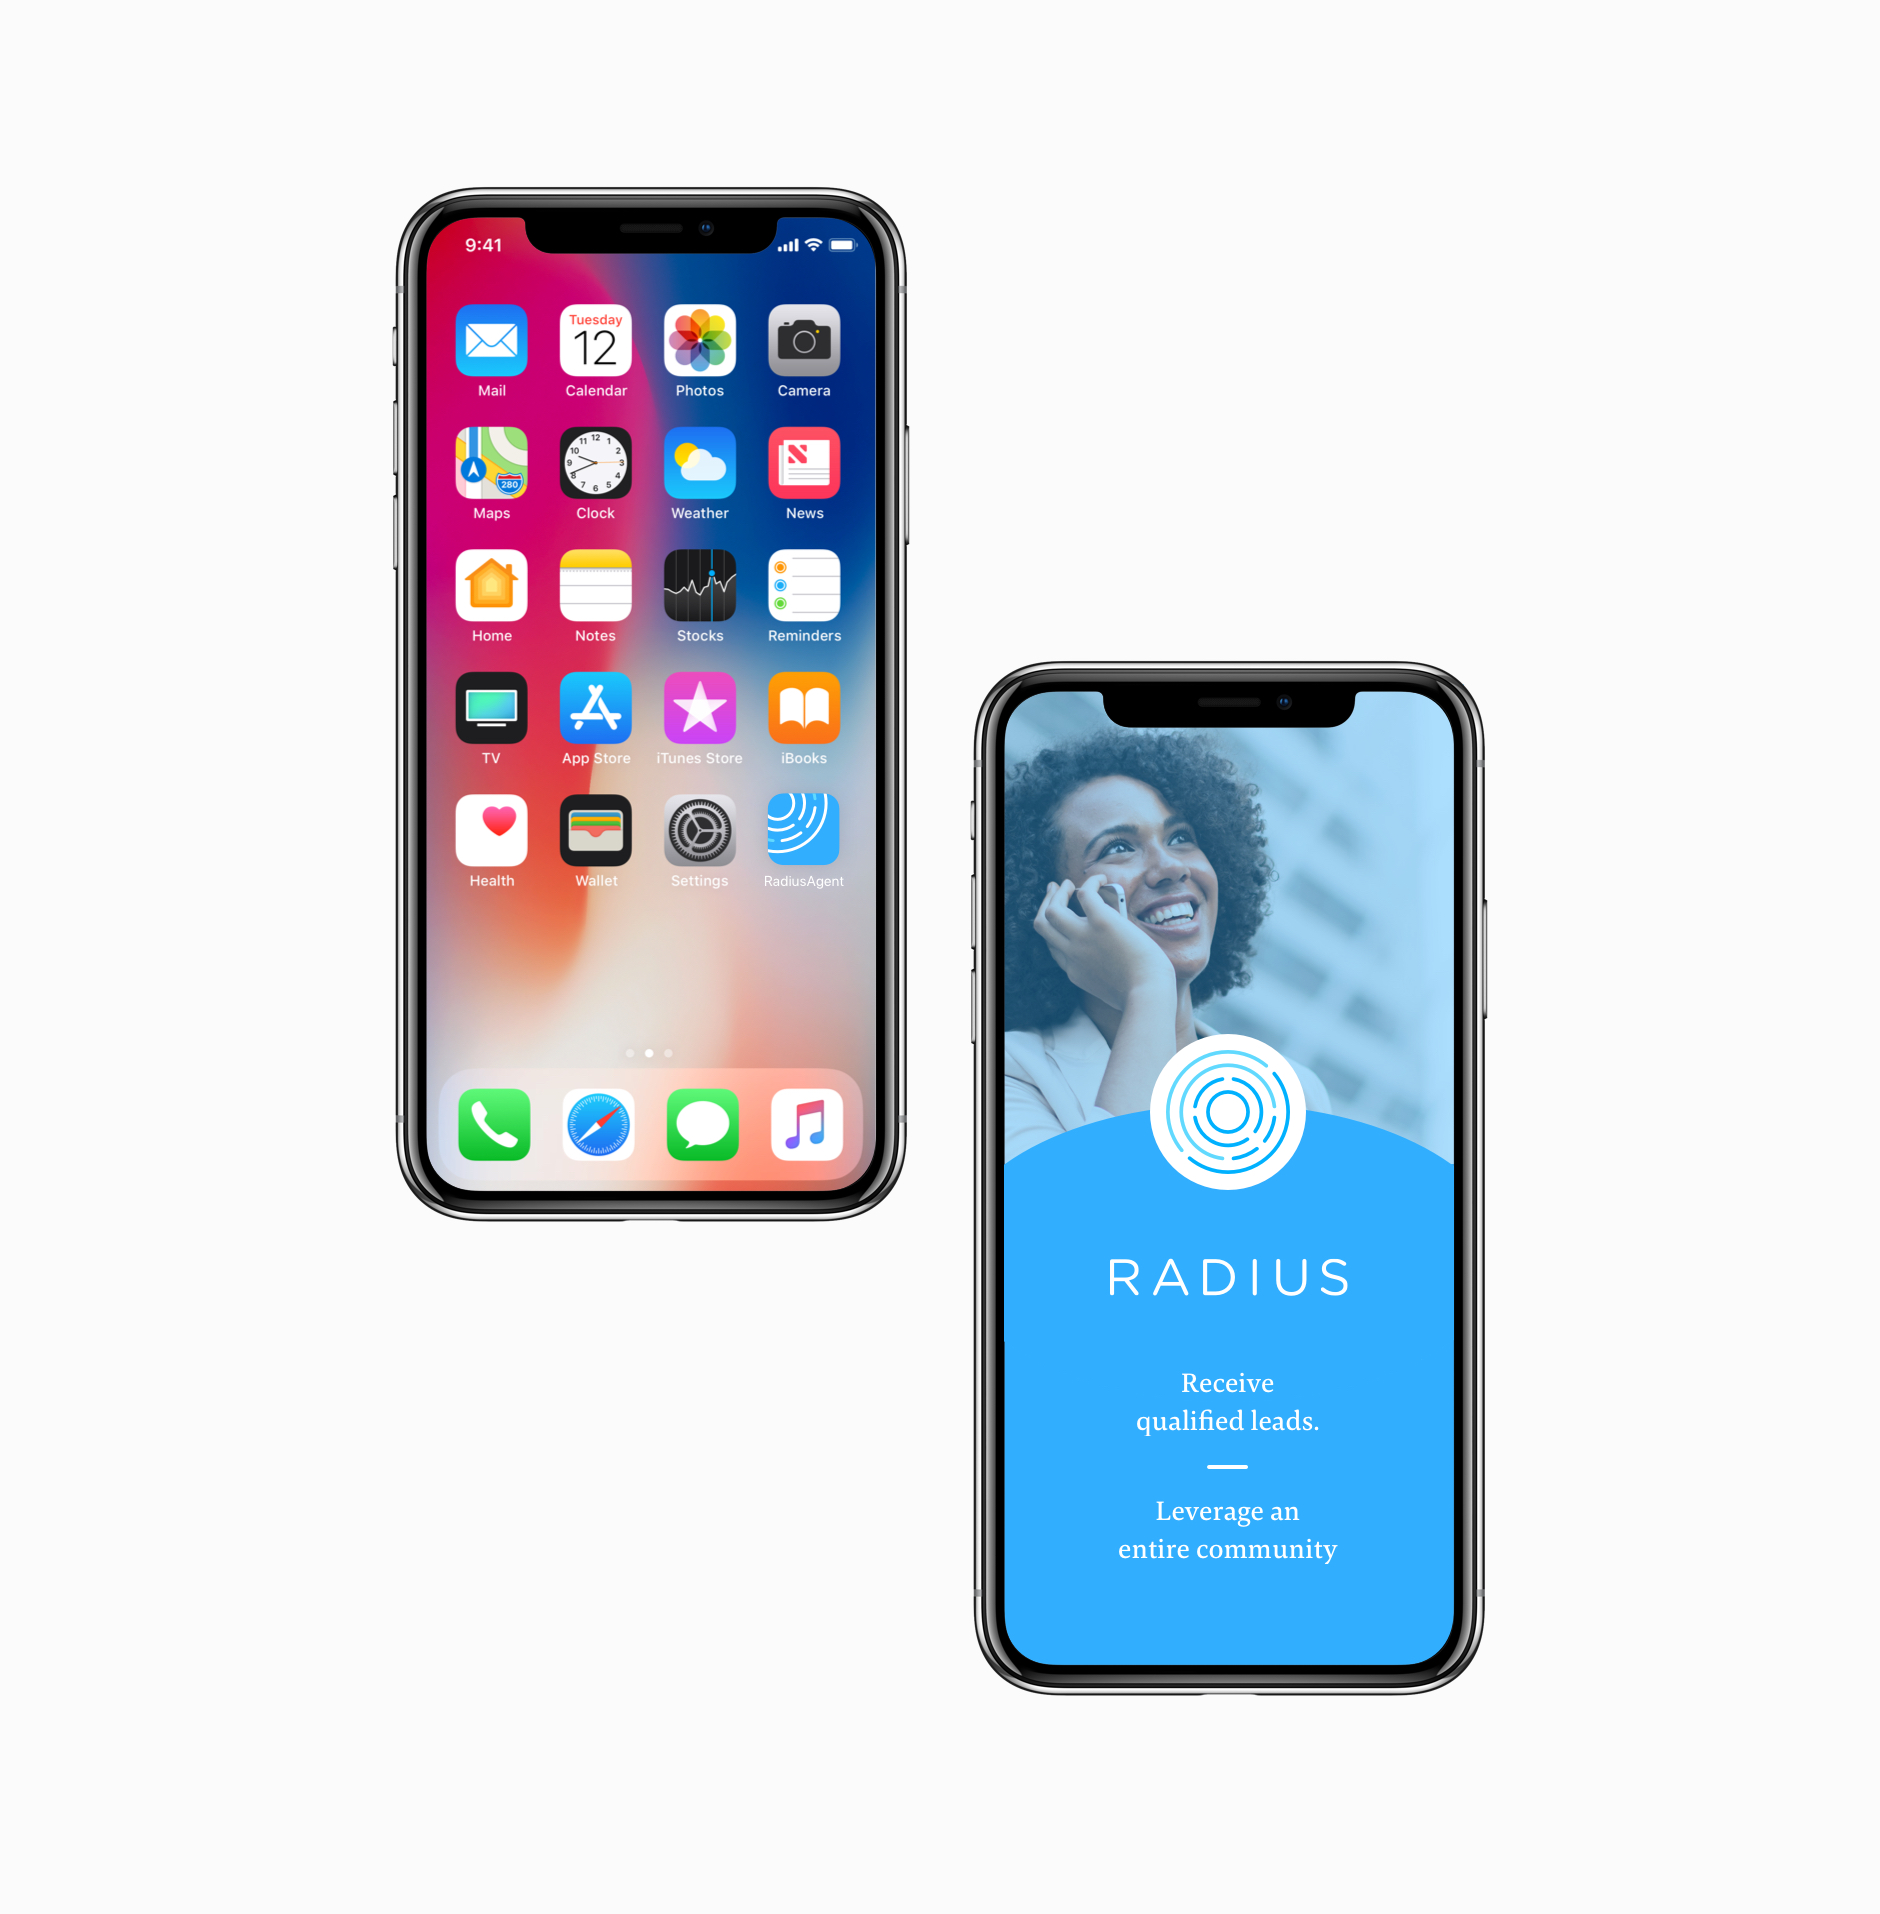
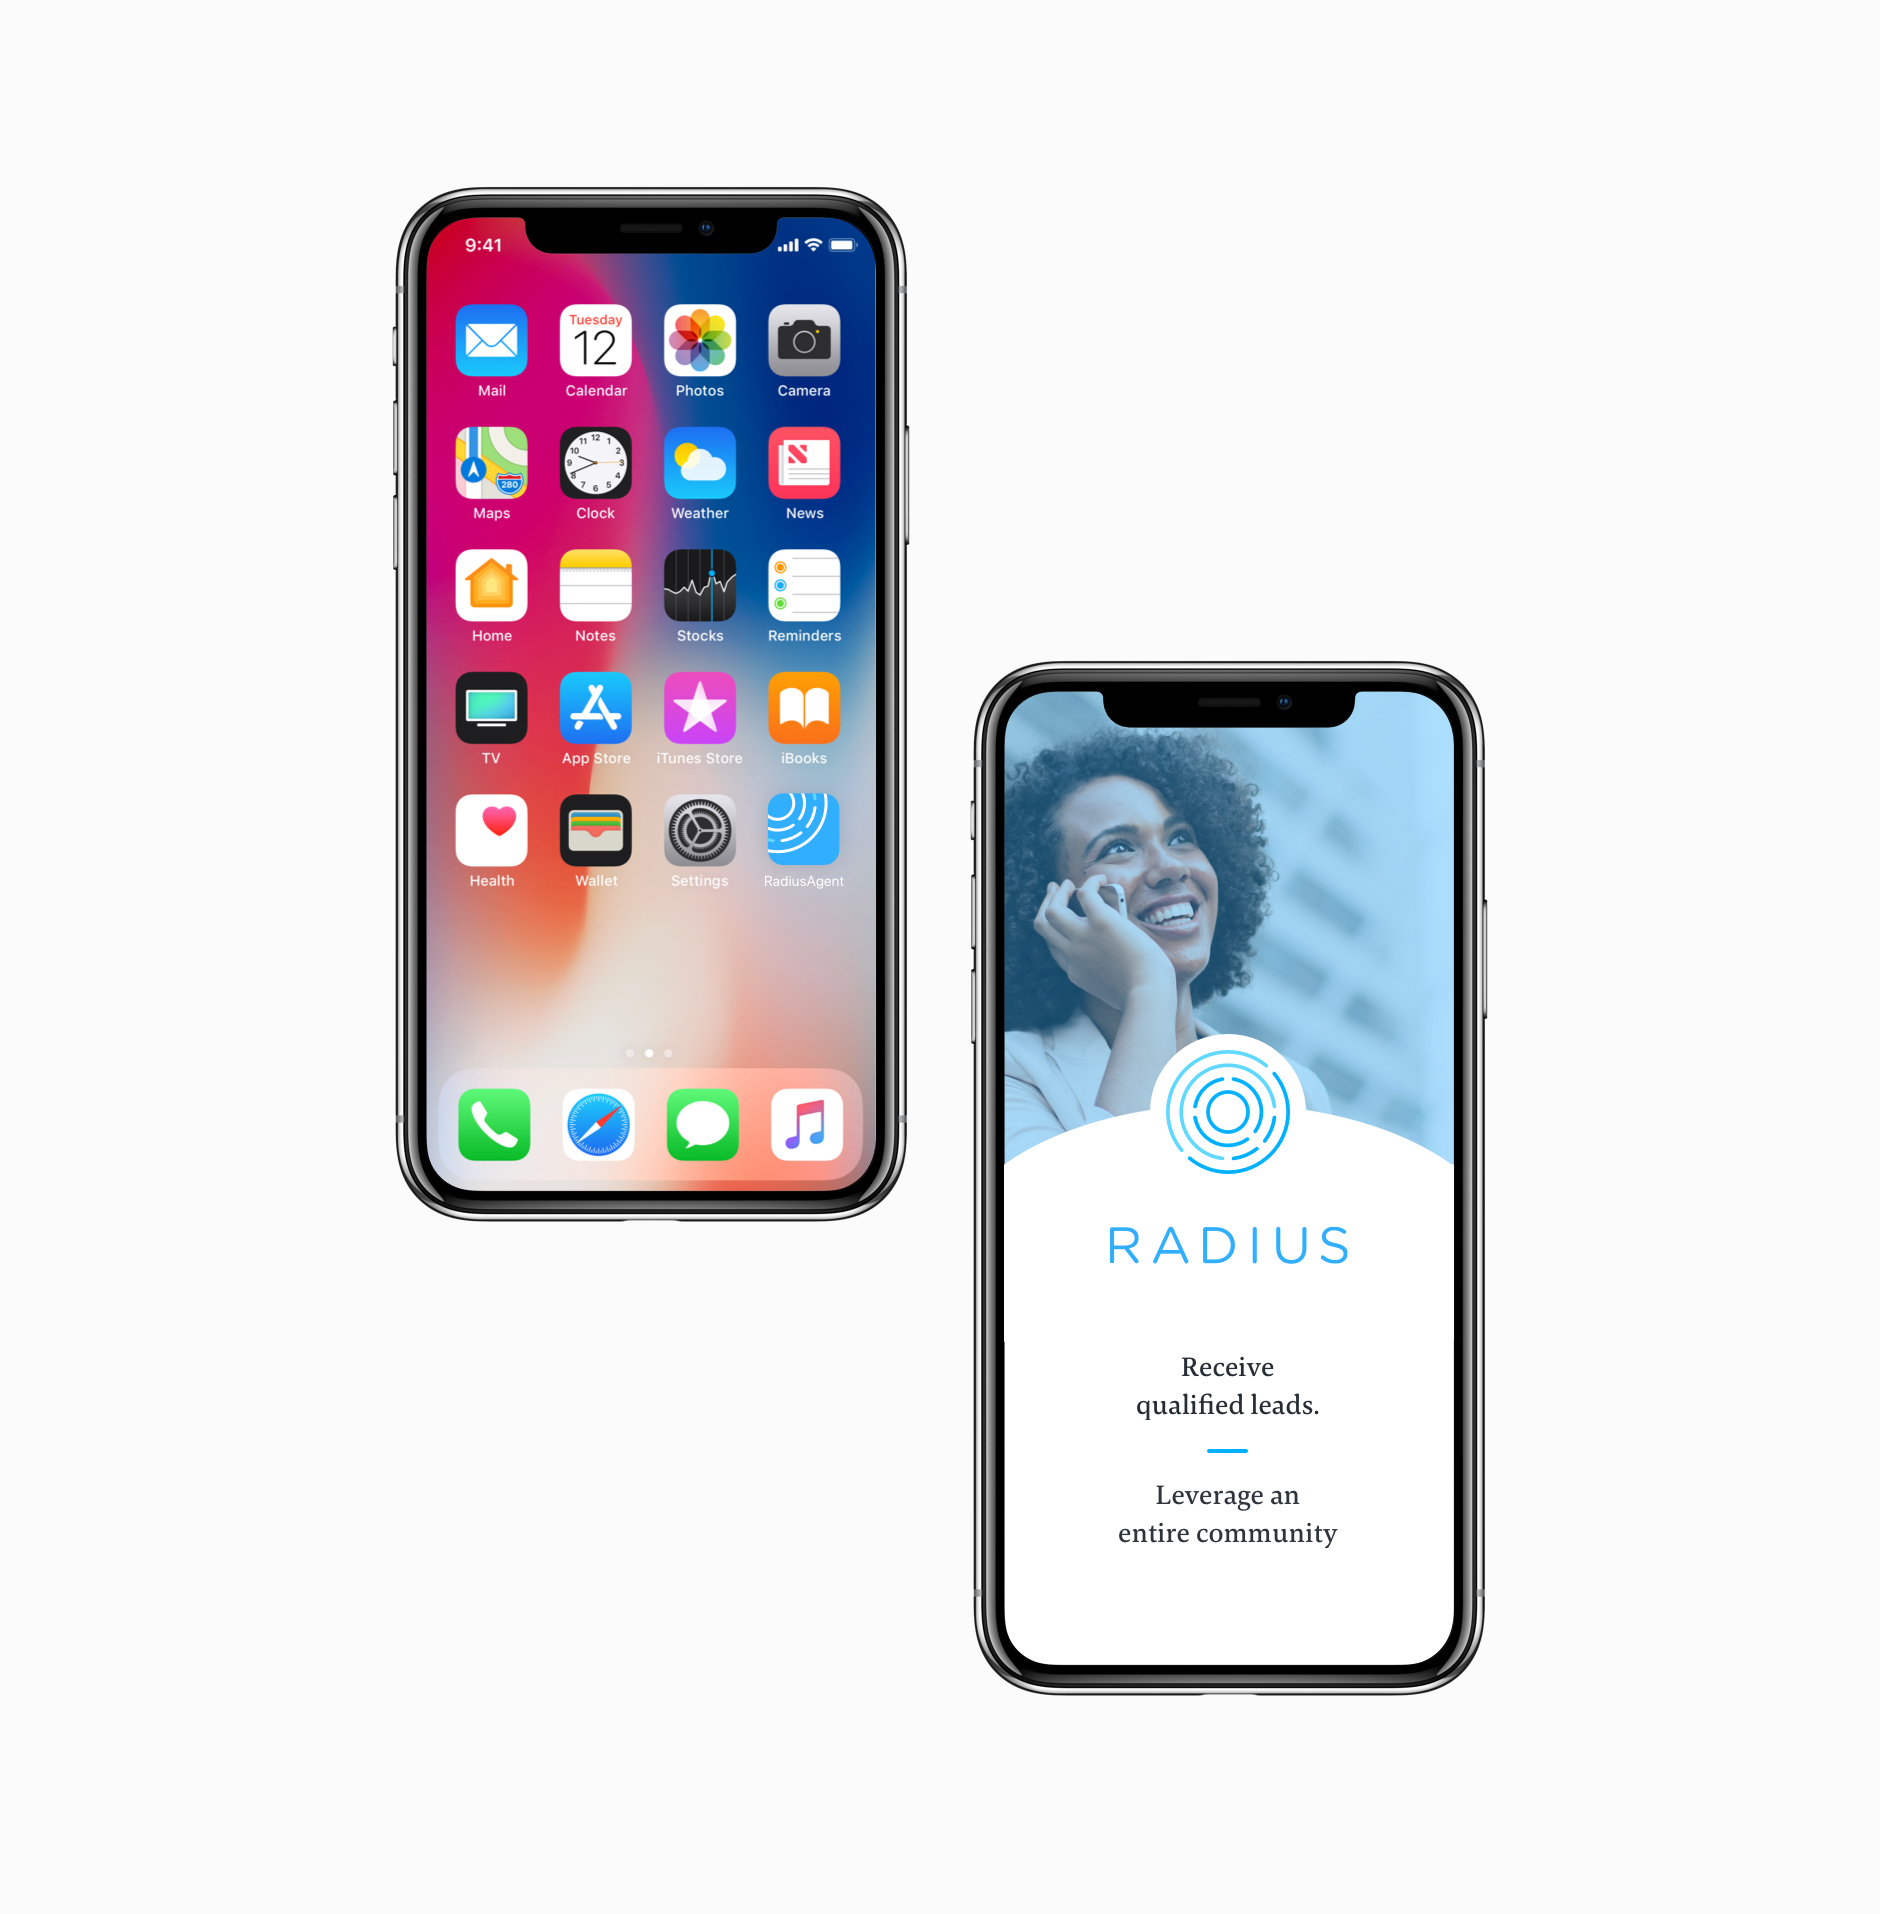
Case Study Updates
- Updated iphone, added ad, added t-shirts

Changed region(s): [[0.5245, 0.5857, 0.7713, 0.8939]]

diff --git a/source/stylesheets/_portfolio.scss b/source/stylesheets/_portfolio.scss
@@ -47,7 +47,7 @@ margin-right:0;
 }
 
 // Padding with No Background Images
-.image-pad {
+.work-image-pad {
 	padding:224px 0px;
 }
 
